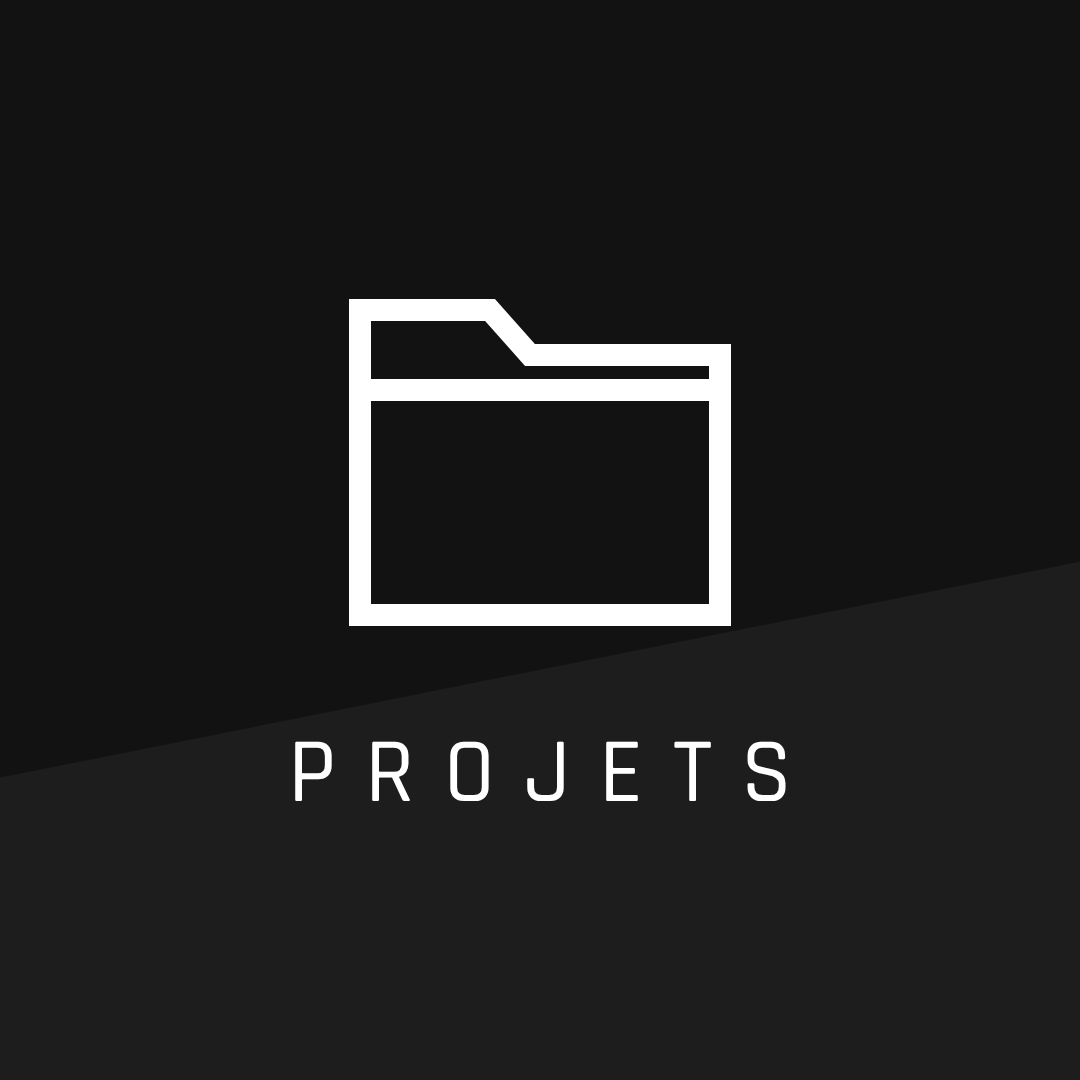
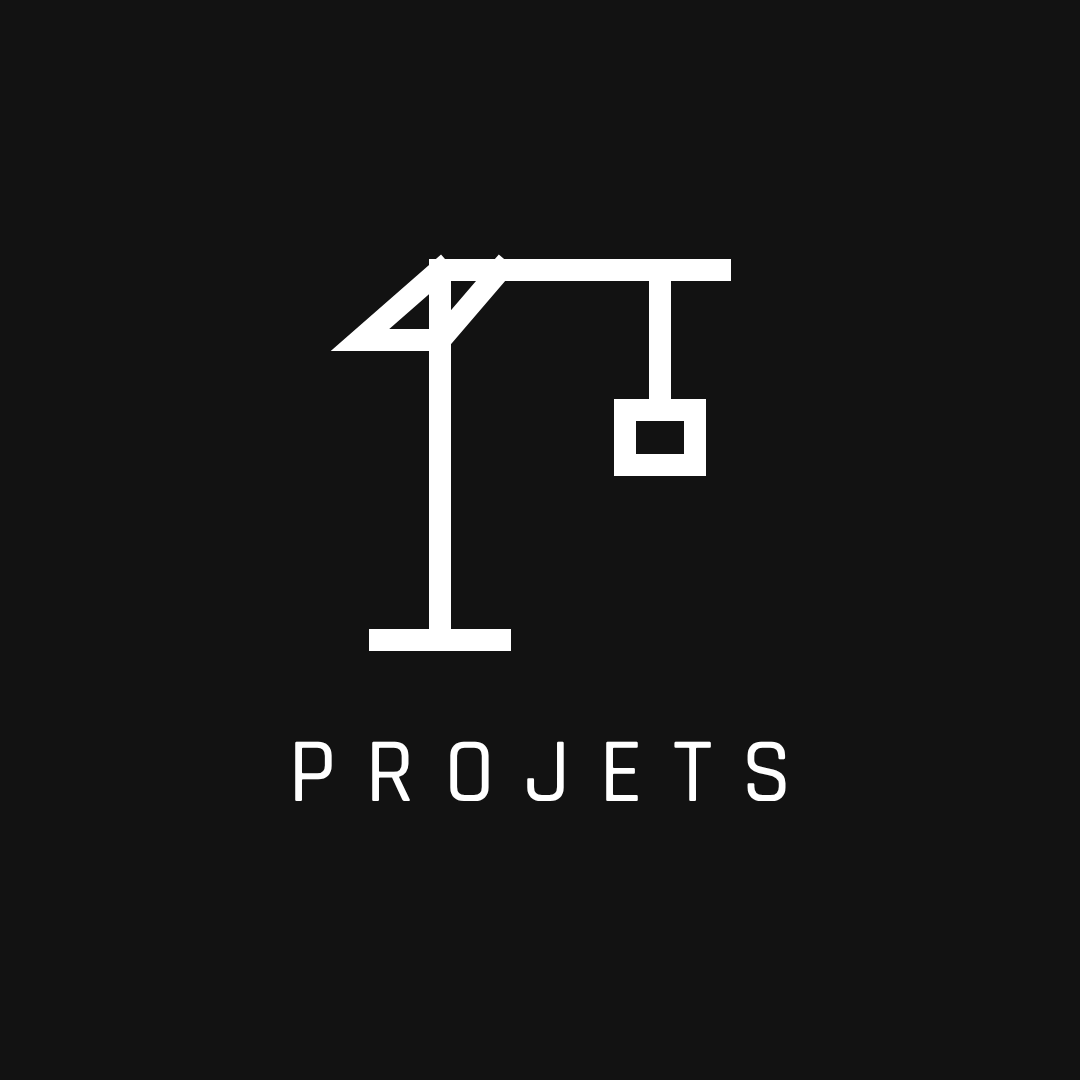
Unify cover background, use crane for PROJETS and helmet for CHANTIER
Claude-Session: https://claude.ai/code/session_013ZKSwvvgukyPHC7DyuF6Vv

Changed region(s): [[0.3056, 0.2139, 0.7028, 0.6111]]

diff --git a/highlight-covers/covers.html b/highlight-covers/covers.html
@@ -2,7 +2,6 @@
 <body style="margin:0;background:#888">
 <style>
 .c{width:1080px;height:1080px;position:relative;background:#121212;overflow:hidden}
-.c::before{content:"";position:absolute;inset:0;background:#1d1d1d;clip-path:polygon(0 72%,100% 52%,100% 100%,0 100%)}
 .c svg{position:absolute;inset:0}
 .t{position:absolute;left:0;right:0;top:715px;text-align:center;color:#fff;font:500 92px Rajdhani;letter-spacing:.32em;padding-left:.32em}
 </style>
@@ -12,11 +11,11 @@ const s='fill="none" stroke="#fff" stroke-width="22" stroke-linejoin="miter" str
 const Y='transform="translate(0,-90)"';
 const icons={
 logo:['',`<image href="logo-src.png" x="190" y="283" width="700" height="513"/>`],
-projets:['PROJETS',`<g ${Y}><path d="M360 400h130l40 45h190v260H360z" ${s}/><path d="M360 480h360" ${s}/></g>`],
+projets:['PROJETS',`<g ${Y}><path d="M440 730V360M440 360h280M440 360l-80 70h80M440 430l60-70M500 360l-60 70M660 360v140" ${s}/><rect x="625" y="500" width="70" height="55" ${s}/><path d="M380 730h120" ${s}/></g>`],
 '3d':['3D',`<g ${Y}><path d="M540 340l170 95v200l-170 95-170-95V435z" ${s}/><path d="M370 435l170 95 170-95M540 530v200" ${s}/></g>`],
 archi:['ARCHI',`<g ${Y}><path d="M380 720V470l90-35v285M470 720V400l100-40v360M570 720V500l130-45v265M340 720h400" ${s}/><path d="M640 560v40M640 640v40M410 540v40M410 620v40" ${s}/></g>`],
 interieur:['INTÉRIEUR',`<g ${Y}><path d="M380 560v-80h320v80M340 560h400v120H340zM370 680v40M710 680v40M420 560v40h240v-40" ${s}/><path d="M540 340v60M490 400h100l-15 0" ${s}/></g>`],
-chantier:['CHANTIER',`<g ${Y}><path d="M440 730V360M440 360h280M440 360l-80 70h80M440 430l60-70M500 360l-60 70M660 360v140" ${s}/><rect x="625" y="500" width="70" height="55" ${s}/><path d="M380 730h120" ${s}/></g>`],
+chantier:['CHANTIER',`<g ${Y}><path d="M370 620a170 170 0 0 1 340 0" ${s}/><path d="M330 620h420v50H330z" ${s}/><path d="M540 450v-30M490 460v90M590 460v90" ${s}/></g>`],
 contact:['CONTACT',`<g ${Y}><rect x="350" y="420" width="380" height="270" ${s}/><path d="M350 420l190 150 190-150" ${s}/></g>`]};
 for(const k in icons){const [t,i]=icons[k];w.innerHTML+=`<div class="c" id="${k}"><svg viewBox="0 0 1080 1080">${i}</svg>${t?`<div class="t">${t}</div>`:''}</div>`}
 </script></body></html>
